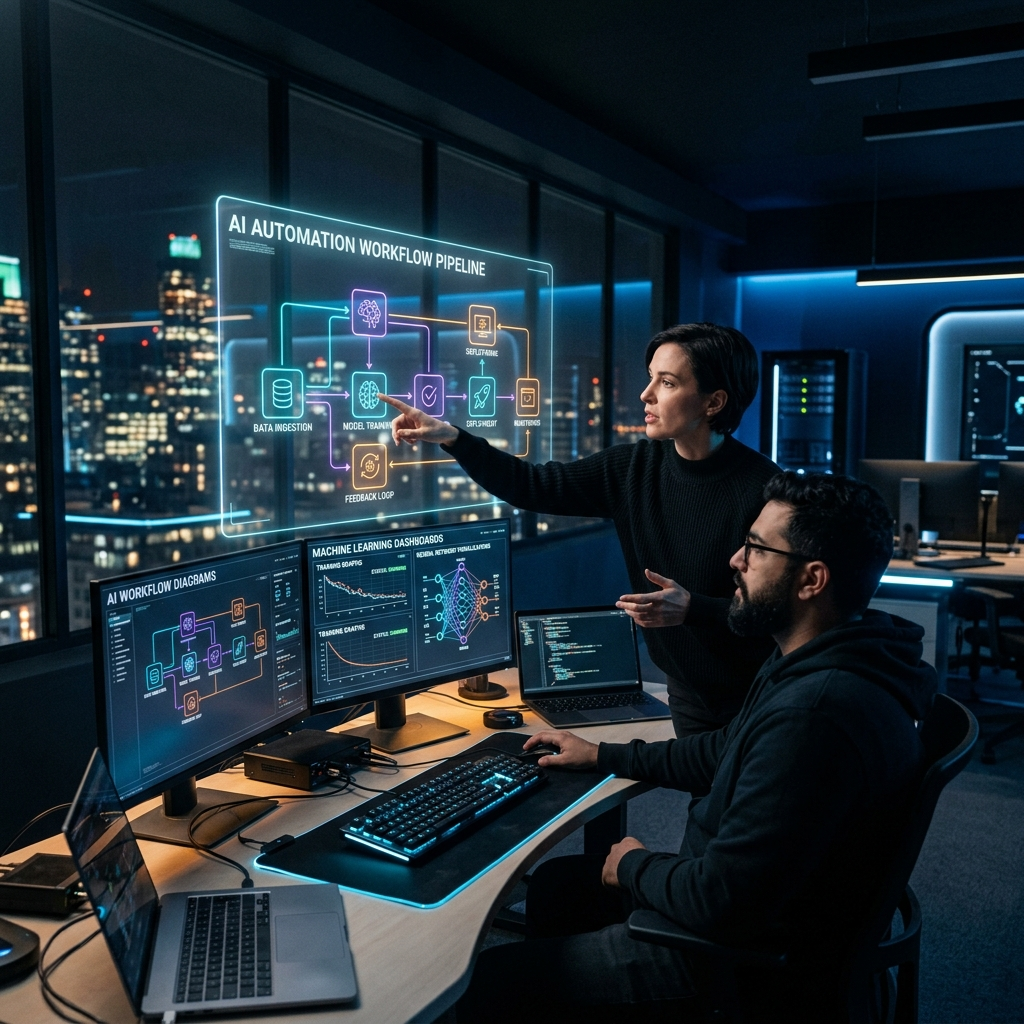
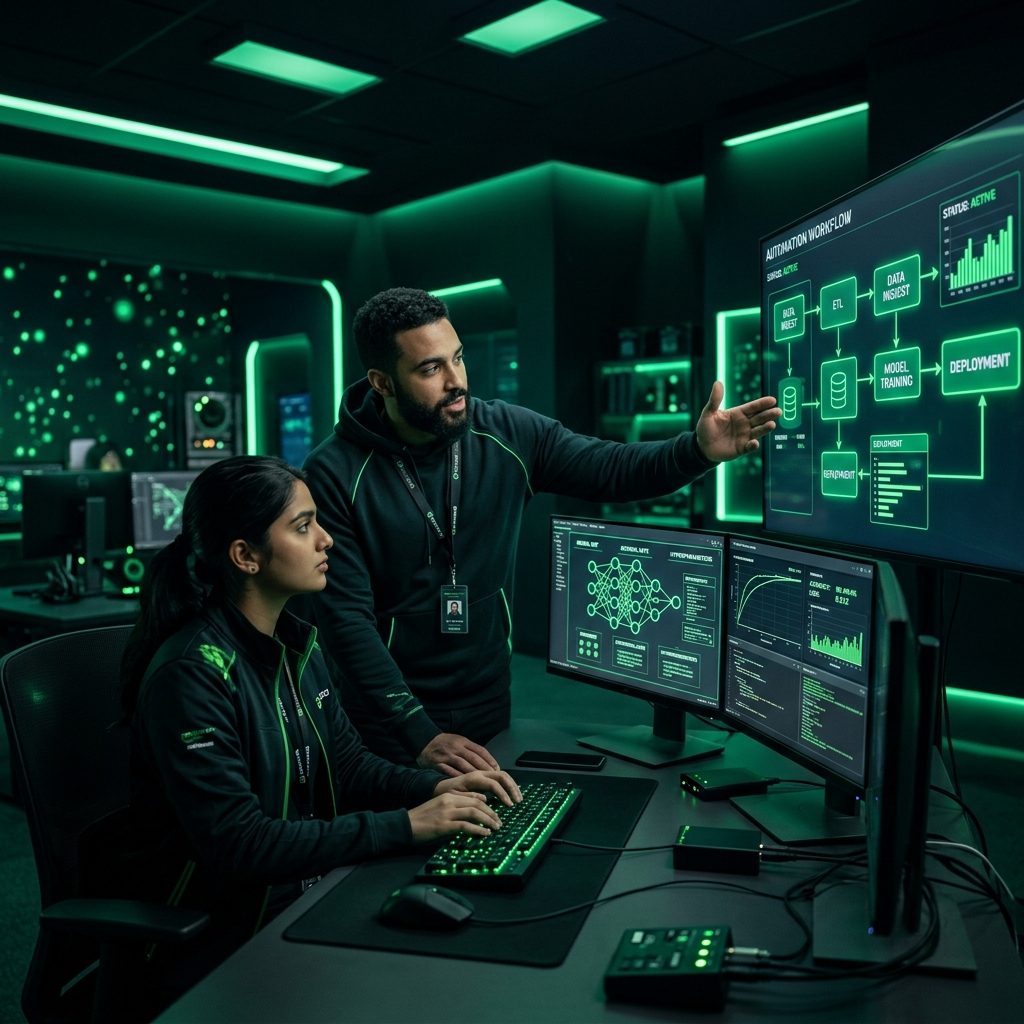
feat: regenerate all hero images with #09b850 brand green color scheme
- hero-dev-team.png: team with emerald green LED ambient lighting
- hero-ai-workflow.png: AI workflow with green node diagrams + green glow
- hero-consultation.png: consultation room with green accent wall + screen
- All 5 slides now consistently use brand dark #0b0f17 + green #09b850

diff --git a/components/sections/Hero.tsx b/components/sections/Hero.tsx
@@ -12,8 +12,8 @@ import { db } from "@/lib/firebase";
 // ─── HERO SLIDE DATA ──────────────────────────────────────────────────────────
 const heroSlides = [
   {
-    src: "/hero-web-dev-green.png",
-    alt: "AWENUE developer team working with emerald green themed tech studio",
+    src: "/hero-dev-team.png",
+    alt: "AWENUE developer team working in emerald green themed dark tech studio",
     kenBurns: "ken-zoom-in",
     label: "Software Development",
   },